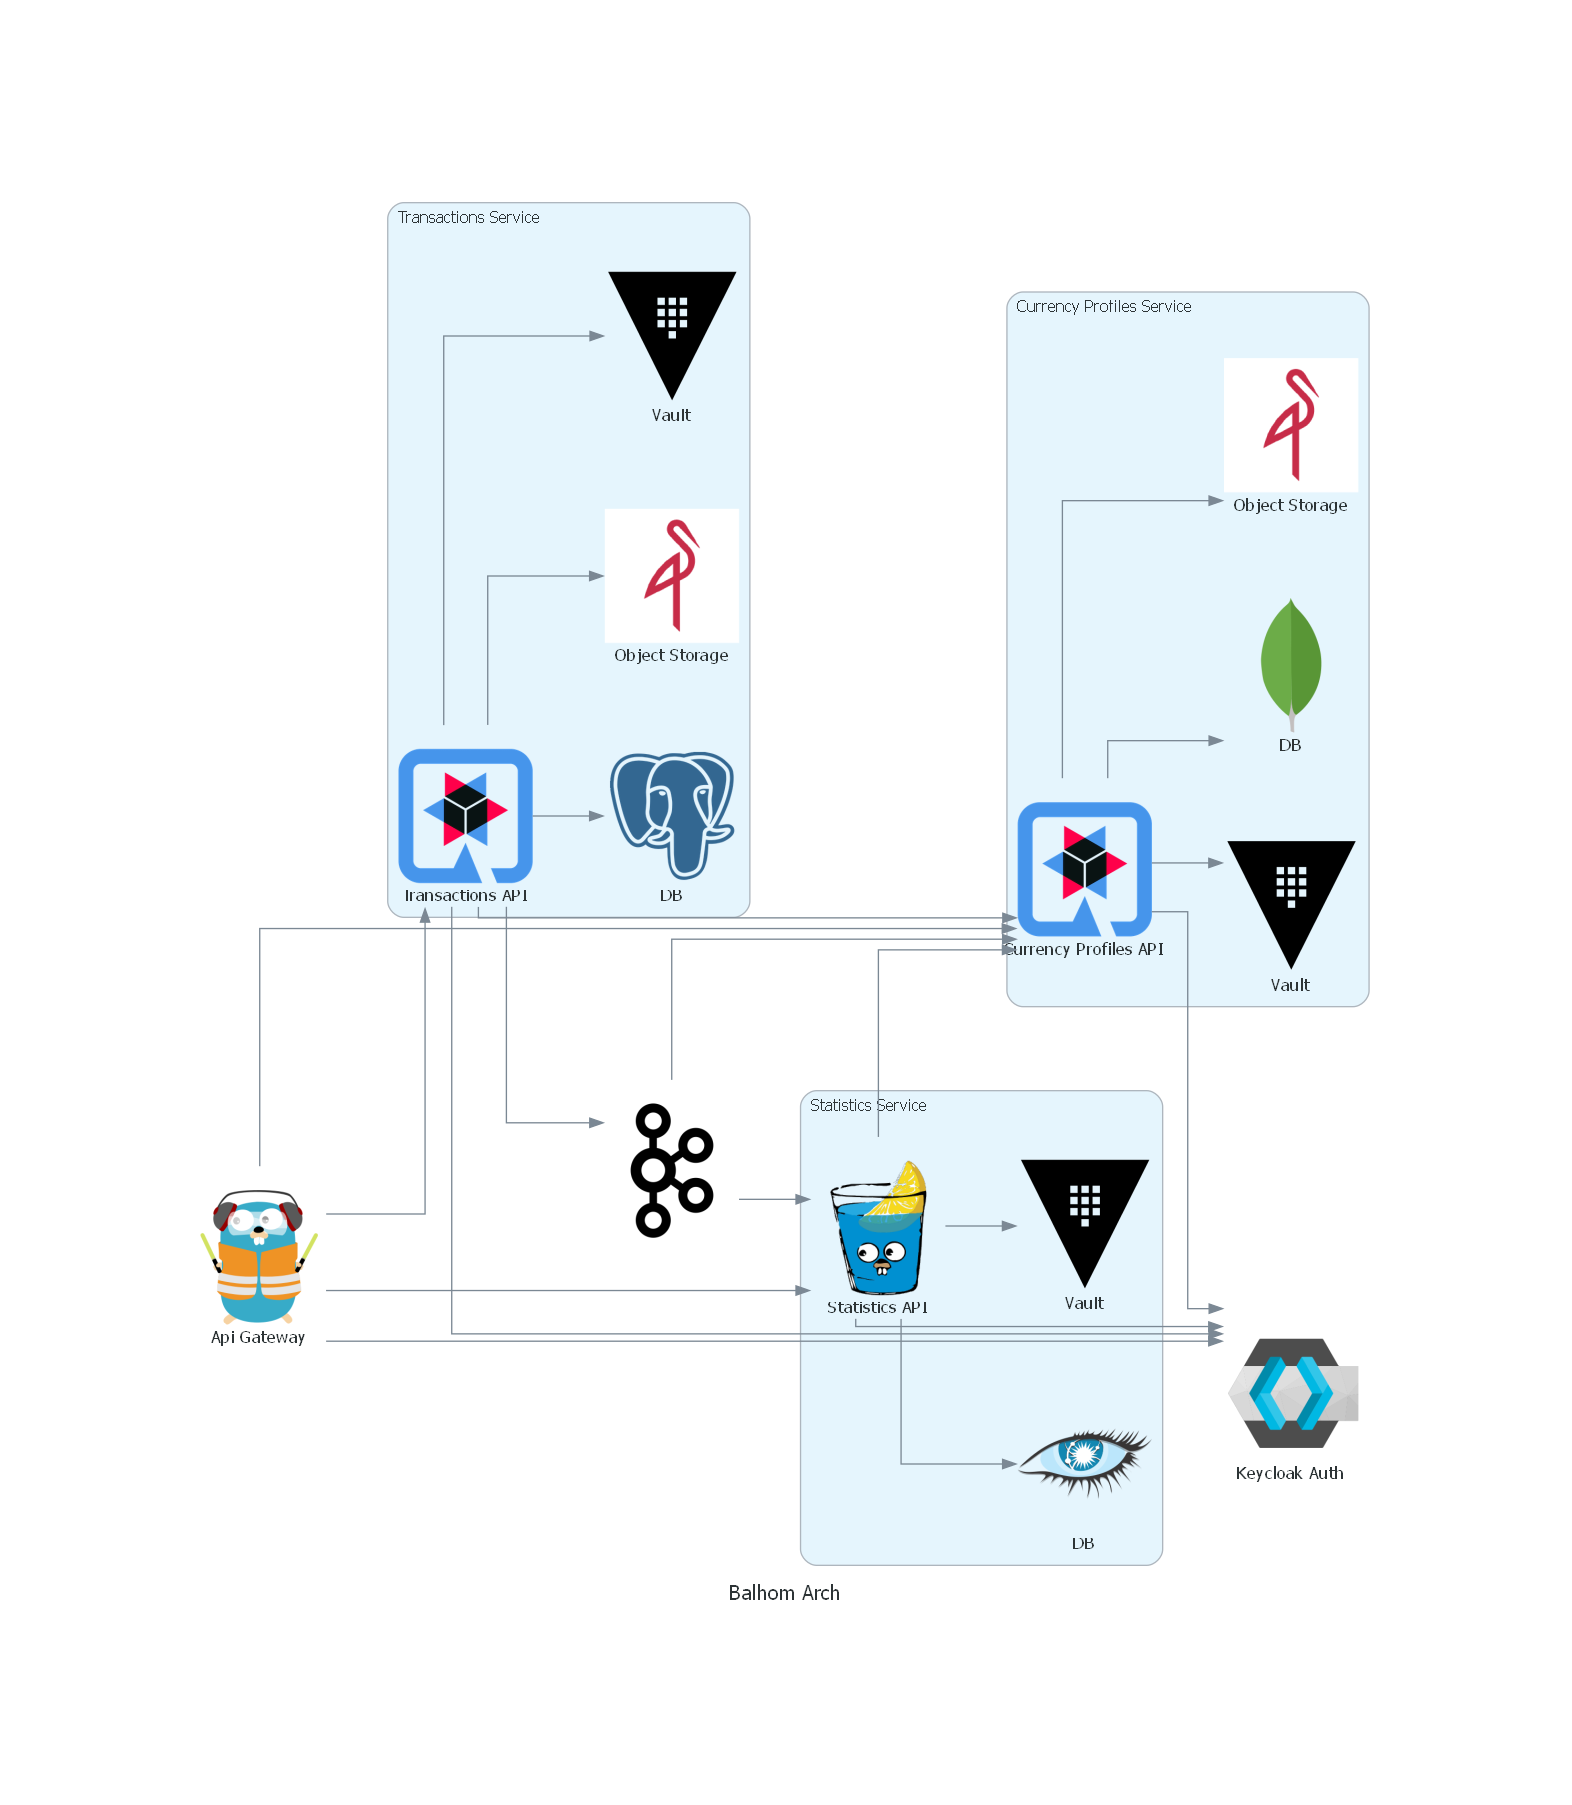
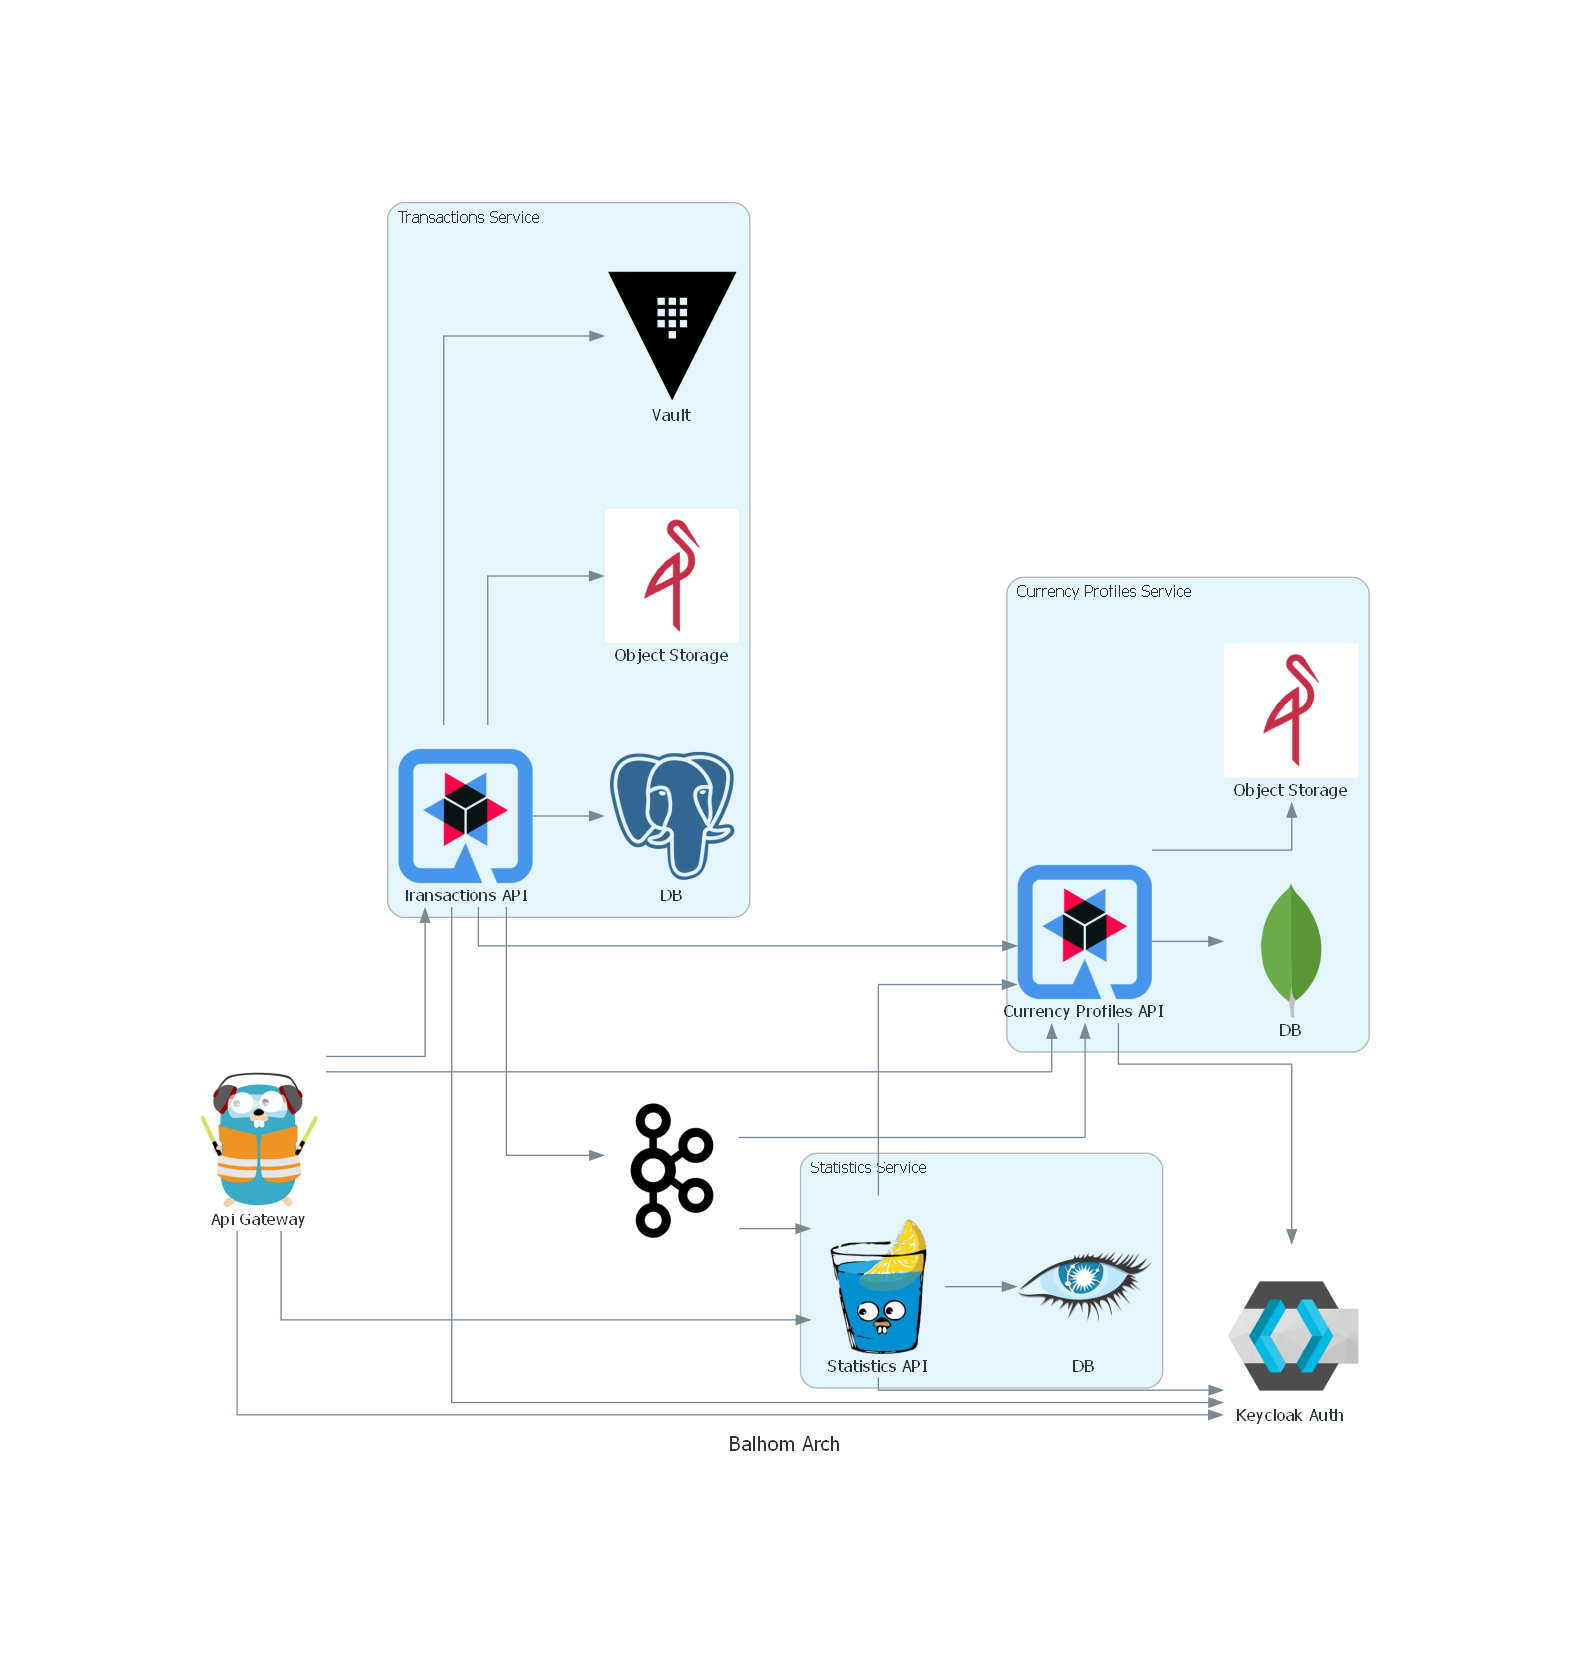
Update Balhom architecture diagram: remove Vault integration from Currency Profiles and Statistics services

diff --git a/arch/balhom_arch.py b/arch/balhom_arch.py
@@ -30,11 +30,9 @@ with Diagram("Balhom Arch", show=True):
         currency_profiles_api = Quarkus("Currency Profiles API")
         currency_profiles_db = Mongodb("DB")
         currency_profiles_object_storage = Custom("Object Storage", minio_icon)
-        currency_profiles_vault = Vault("Vault")
-
+        
         currency_profiles_api >> currency_profiles_db
         currency_profiles_api >> currency_profiles_object_storage
-        currency_profiles_api >> currency_profiles_vault
 
     # Transactions Cluster
     with Cluster("Transactions Service"):
@@ -51,10 +49,8 @@ with Diagram("Balhom Arch", show=True):
     with Cluster("Statistics Service"):
         statistics_api = Custom("Statistics API", gin_gonic_icon)
         statistics_db = Cassandra("DB")
-        statistics_vault = Vault("Vault")
 
         statistics_api >> statistics_db
-        statistics_api >> statistics_vault
 
     keycloak_auth = Custom("Keycloak Auth", keycloak_icon)
 
